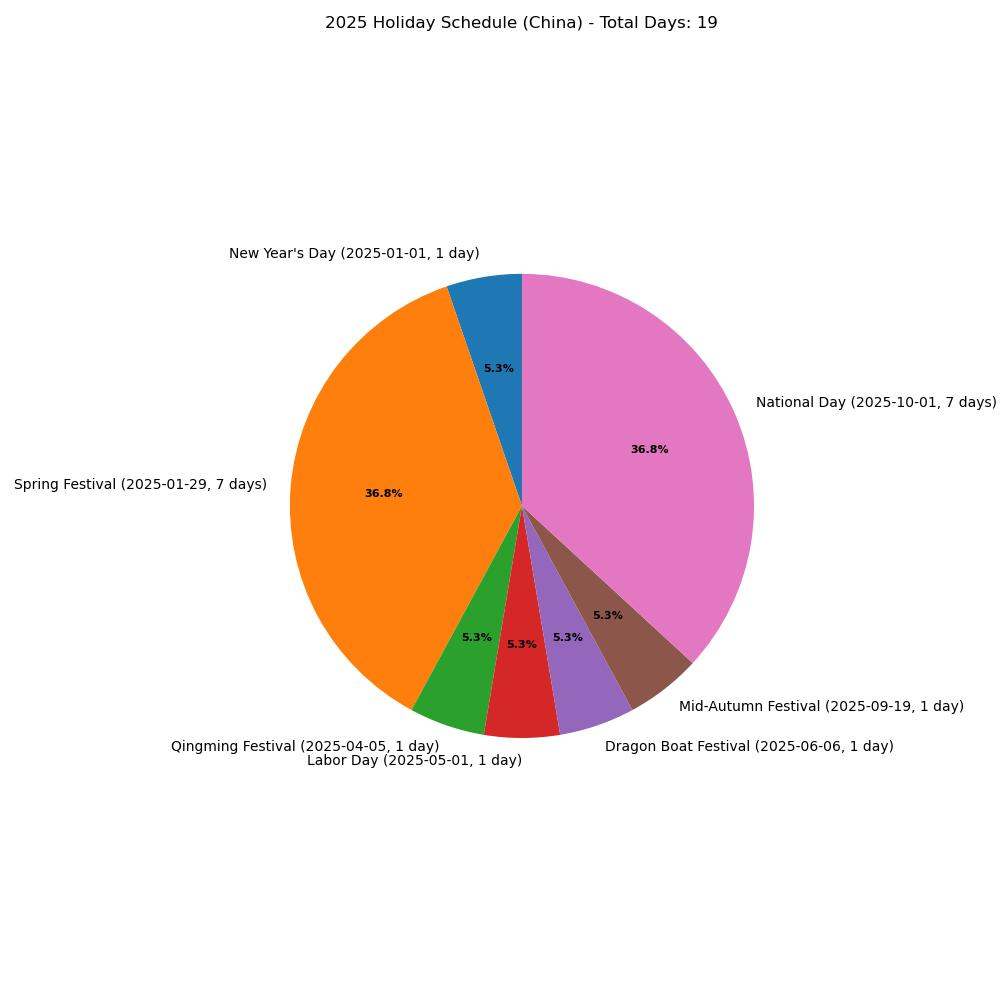
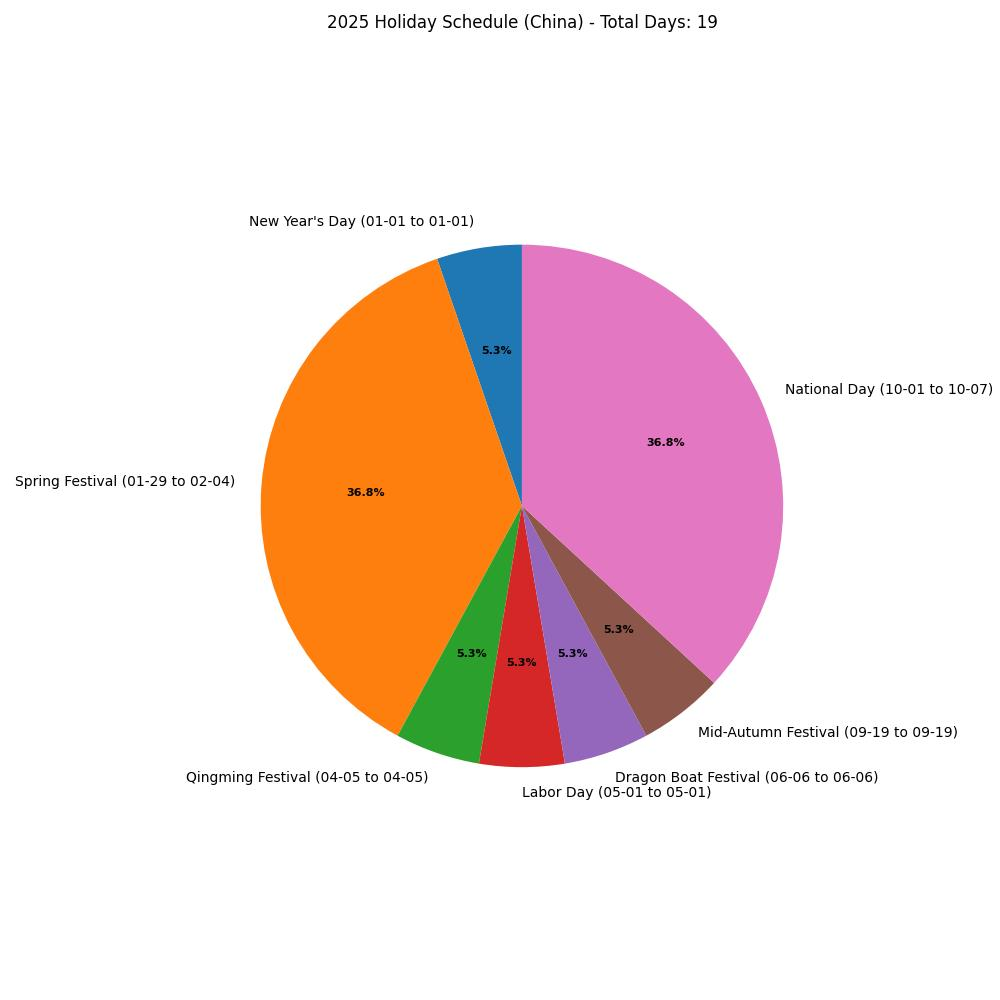
docs: update holiday schedule images and requirements

diff --git a/scripts/holiday.py b/scripts/holiday.py
@@ -33,7 +33,13 @@ holidays_cn = [
 
 # Calculate total holiday days for Hong Kong
 total_days_hk = sum(holiday["duration"] for holiday in holidays_hk)
-labels_hk = [f"{holiday['name']} ({holiday['date']}, {holiday['duration']} day{'s' if holiday['duration'] > 1 else ''})" for holiday in holidays_hk]
+labels_hk = []
+for holiday in holidays_hk:
+    start_date = datetime.strptime(holiday['date'], '%Y-%m-%d')
+    end_date = start_date + timedelta(days=holiday['duration'] - 1)
+    end_date_str = end_date.strftime('%m-%d')
+    start_date_str = start_date.strftime('%m-%d')
+    labels_hk.append(f"{holiday['name']} ({start_date_str} to {end_date_str})")
 sizes_hk = [holiday["duration"] for holiday in holidays_hk]
 
 
@@ -51,7 +57,13 @@ plt.savefig(os.path.join(os.path.dirname(__file__), 'holiday_schedule_hk.jpg'))
 
 # Calculate total holiday days for China
 total_days_cn = sum(holiday["duration"] for holiday in holidays_cn)
-labels_cn = [f"{holiday['name']} ({holiday['date']}, {holiday['duration']} day{'s' if holiday['duration'] > 1 else ''})" for holiday in holidays_cn]
+labels_cn = []
+for holiday in holidays_cn:
+    start_date = datetime.strptime(holiday['date'], '%Y-%m-%d')
+    end_date = start_date + timedelta(days=holiday['duration'] - 1)
+    end_date_str = end_date.strftime('%m-%d')
+    start_date_str = start_date.strftime('%m-%d')
+    labels_cn.append(f"{holiday['name']} ({start_date_str} to {end_date_str})")
 sizes_cn = [holiday["duration"] for holiday in holidays_cn]
 
 # Create the pie chart for China
